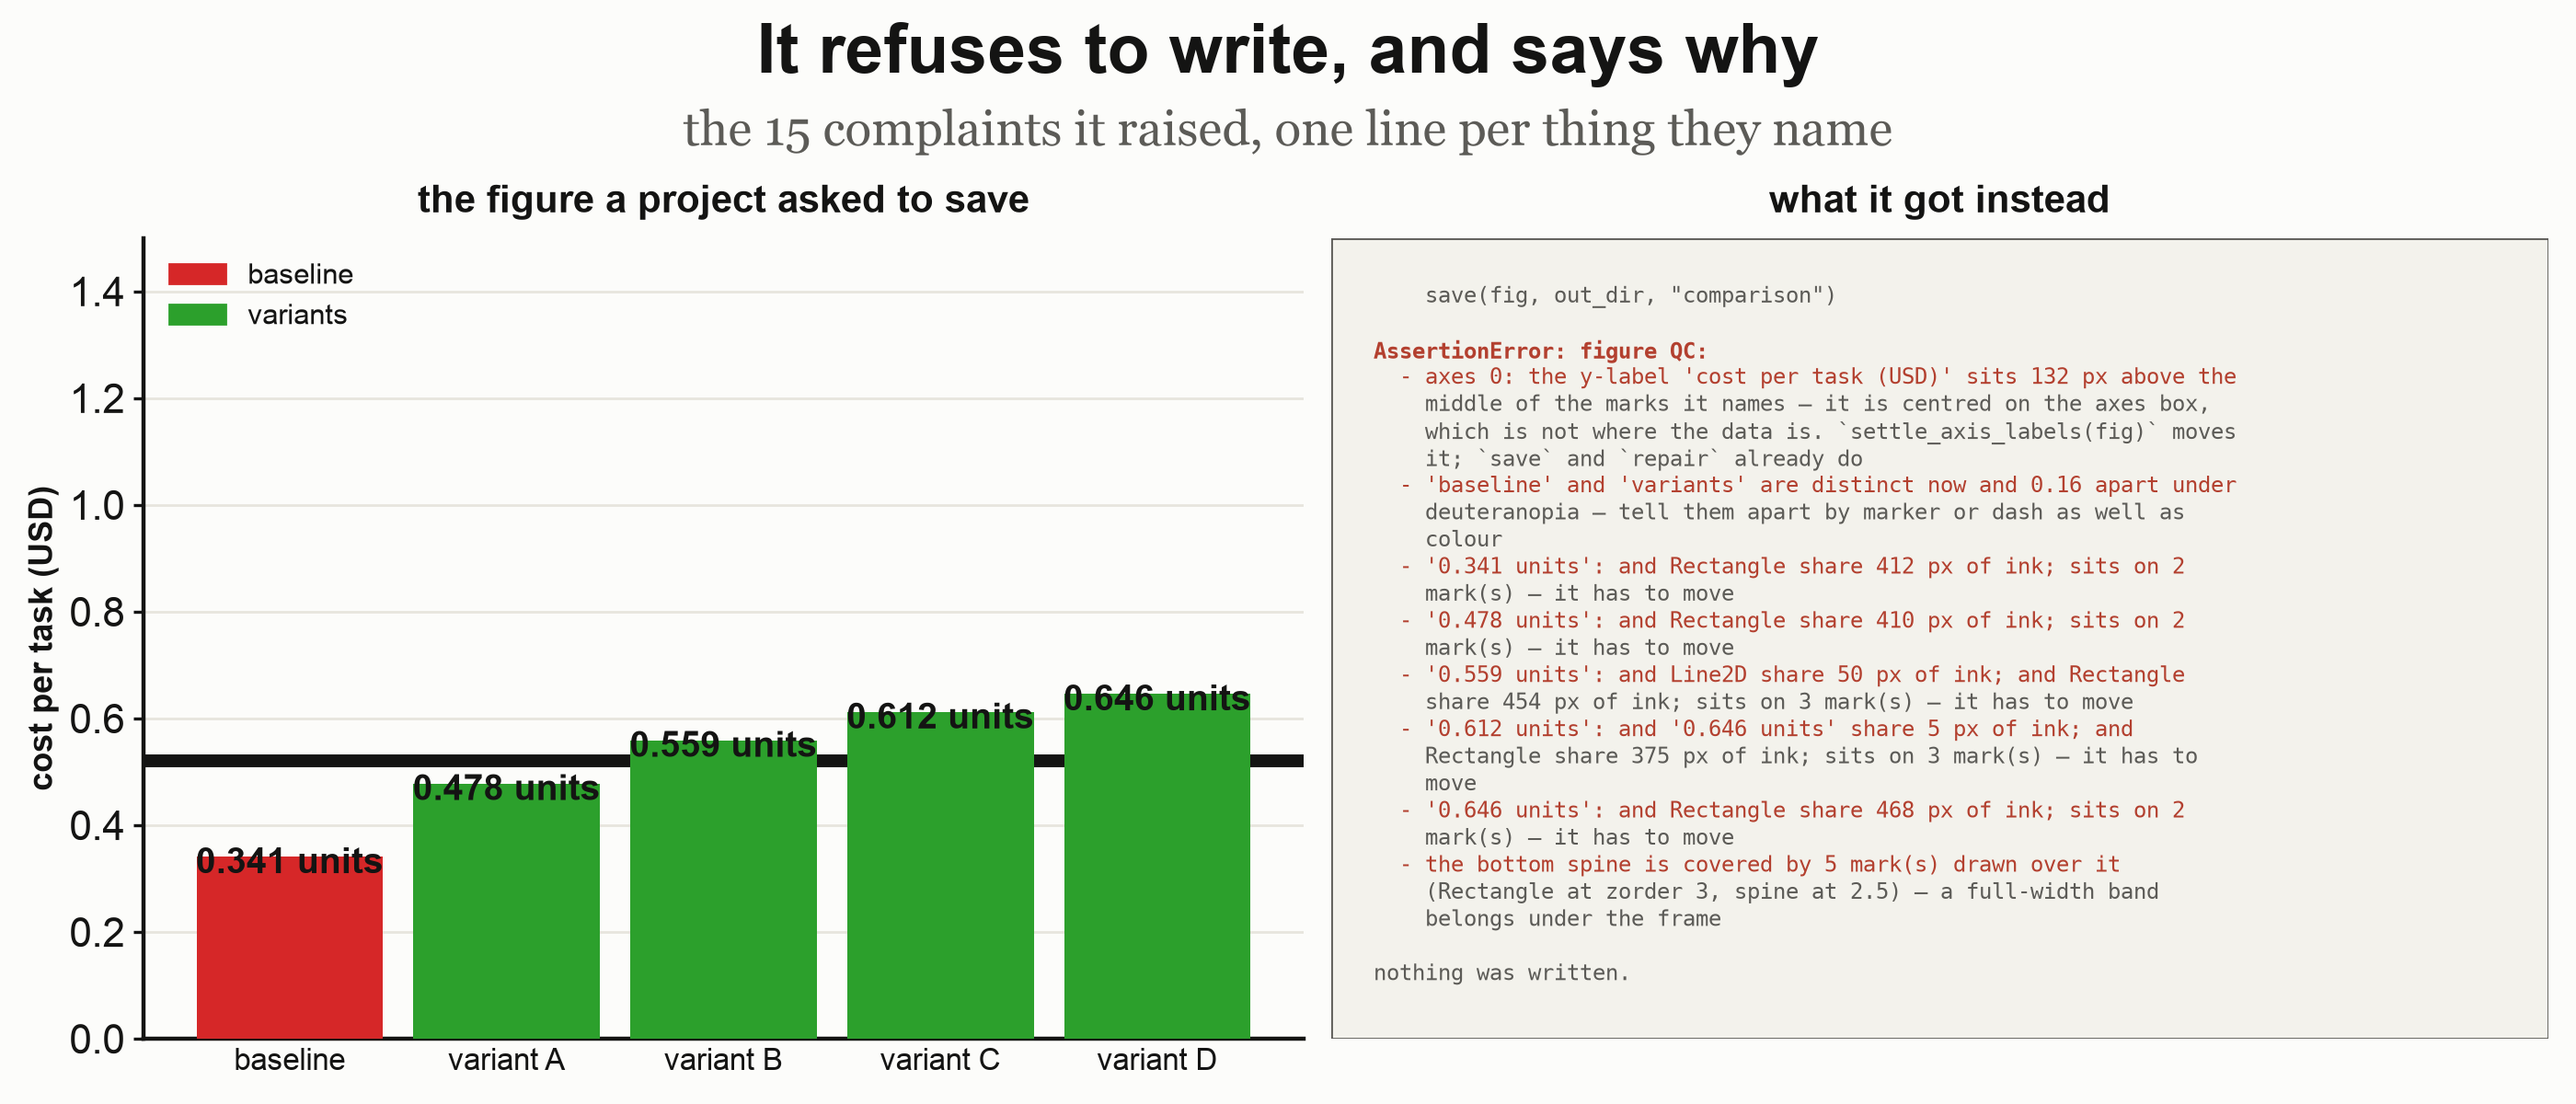
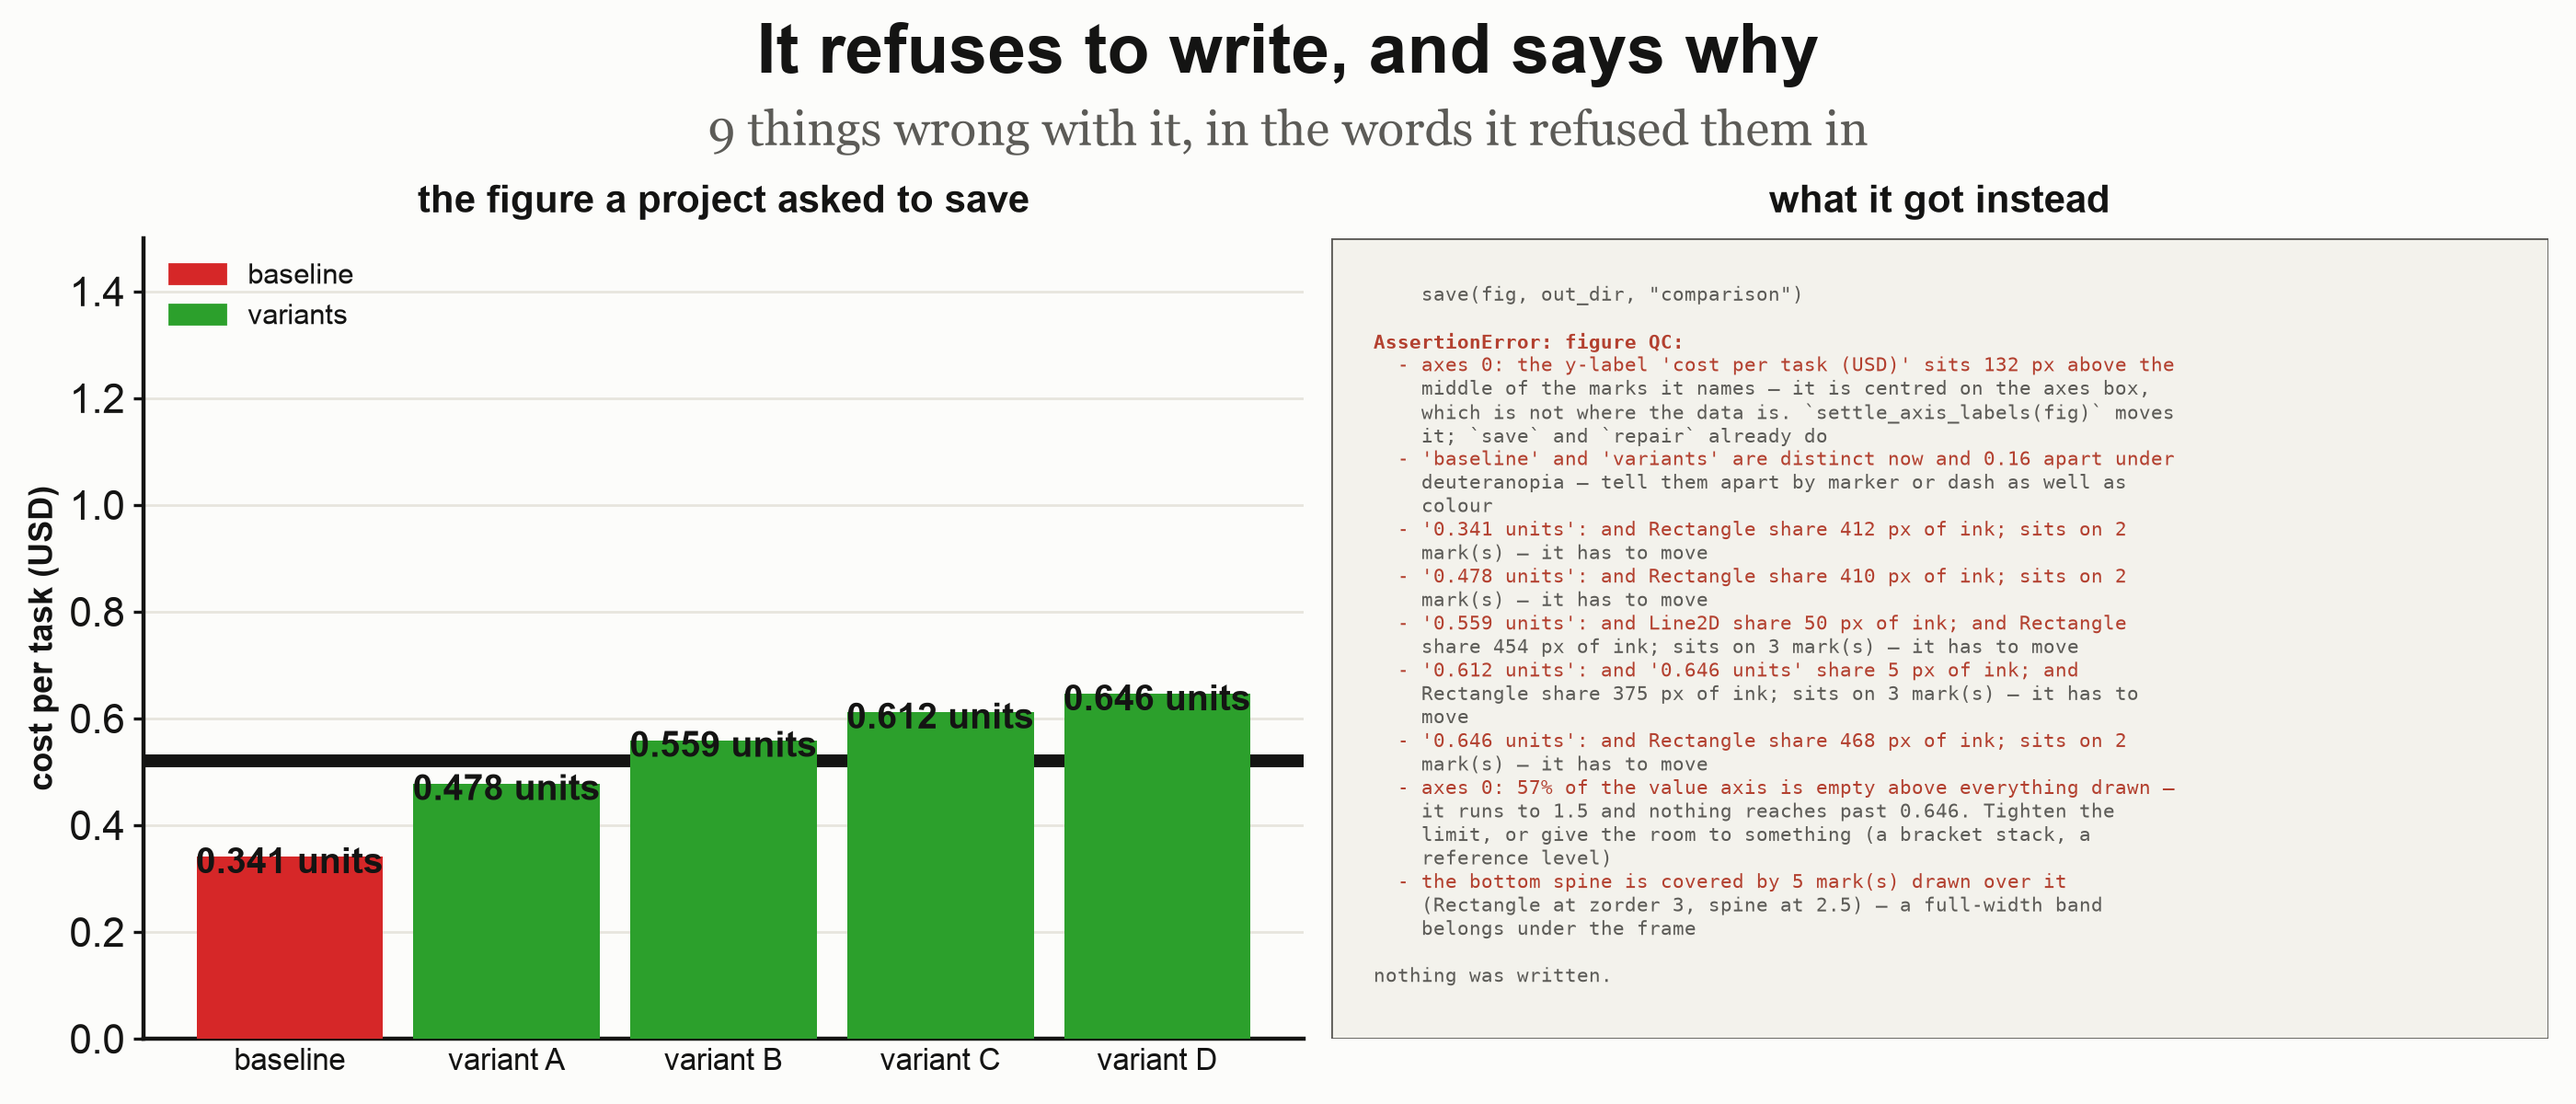
feat(qc): flag a value axis run past the data with nothing using the room
`ticks_in_the_headroom` returns early when a panel has no bracket stack, so it
covers only the case where the space IS spoken for. The plainer failure went
unreported: an axis simply set too tall, leaving a band of empty grid above the
data with no marks, no brackets and no reference in it — the reader is shown
ticks and gridlines for values nothing reaches, and every mark is squashed into
what is left.

Everything drawn counts as using the space, brackets and reference levels
included, because that is what headroom is normally for; in-panel text counts too,
or a top band holding a printed mean reads as empty. Only the TOP is judged — a
floor at zero is a deliberate and often required choice for bars, so empty space
below has an innocent explanation that empty space above does not.

Measured across the gallery for the threshold: the airiest correct panel leaves
27.7% of its axis empty, the next four 20-23%, median about 8%. The floor is 40%,
clear of the worst correct figure rather than fitted to the broken one, and a
test pins that relationship.

Also fixes what the gate figure's subtitle claimed. Two wordings named the raw
complaint count beside a card showing grouped lines, so the sentence asserted a
total nothing on the page adds up to — "8 complaints on 7 subjects" explained the
gap with this package's jargon, "the 15 complaints it raised" just dropped it.
The card has one line per thing named, so that is what gets counted: 9 lines,
9 named.

Changed region(s): [[0.5282, 0.3083, 0.87, 0.8942], [0.2486, 0.0925, 0.7146, 0.1542], [0.5593, 0.2467, 0.7146, 0.2775]]

diff --git a/ogviz/qc/test_arrangement.py b/ogviz/qc/test_arrangement.py
@@ -83,3 +83,85 @@ def test_no_gallery_figure_is_reported_as_crowded() -> None:
         "the tightest shipped gallery figure clears by 17.6 px; a floor at or above that "
         "reports a figure that is correct"
     )
+
+
+def test_an_axis_run_far_past_the_data_is_reported() -> None:
+    """Ticks and gridlines for values nothing reaches, and the marks squashed into what is left."""
+    from ogviz.qc.arrangement import unused_value_headroom
+
+    fig, ax = plt.subplots(figsize=(6.0, 5.0))
+    ax.bar([0, 1, 2], [0.34, 0.48, 0.65])
+    ax.set_ylim(0.0, 1.5)
+    found = unused_value_headroom(fig)
+    assert found and "empty above everything drawn" in found[0], found
+    assert "1.5" in found[0] and "0.65" in found[0], "it names both ends of the gap"
+    plt.close(fig)
+
+
+def test_a_fitted_axis_says_nothing() -> None:
+    """The premise for the test above, and the thing a threshold has to get right."""
+    from ogviz.qc.arrangement import unused_value_headroom
+
+    fig, ax = plt.subplots(figsize=(6.0, 5.0))
+    ax.bar([0, 1, 2], [0.34, 0.48, 0.65])
+    ax.set_ylim(0.0, 0.72)
+    assert unused_value_headroom(fig) == []
+    plt.close(fig)
+
+
+def test_headroom_a_bracket_occupies_is_headroom_in_use() -> None:
+    """The whole point of the distinction: reserved space is not wasted space.
+
+    `ticks_in_the_headroom` covers the case where the room is spoken for. This must not report the
+    same panel a second time, in different words, for having the room at all.
+    """
+    from ogviz.qc.arrangement import unused_value_headroom
+    from ogviz.tags import mark
+
+    fig, ax = plt.subplots(figsize=(6.0, 5.0))
+    ax.bar([0, 1, 2], [0.34, 0.48, 0.65])
+    ax.set_ylim(0.0, 1.5)
+    assert unused_value_headroom(fig), "the premise: empty, this panel is reported"
+
+    bracket = ax.plot([0, 2], [1.35, 1.35], color="#333")[0]
+    mark(bracket, "bracket")
+    assert unused_value_headroom(fig) == [], "a bracket in the room is the room being used"
+    plt.close(fig)
+
+
+def test_in_panel_text_counts_as_using_the_room() -> None:
+    """A printed mean or an annotation occupies the axis as surely as a mark does."""
+    from ogviz.qc.arrangement import unused_value_headroom
+
+    fig, ax = plt.subplots(figsize=(6.0, 5.0))
+    ax.bar([0, 1, 2], [0.34, 0.48, 0.65])
+    ax.set_ylim(0.0, 1.5)
+    assert unused_value_headroom(fig), "the premise"
+    ax.text(1.0, 1.35, "n = 40", ha="center")
+    assert unused_value_headroom(fig) == []
+    plt.close(fig)
+
+
+def test_an_empty_bottom_is_not_reported() -> None:
+    """A floor at zero is a deliberate and often required choice for bars.
+
+    Empty space below the data has an innocent explanation that empty space above it does not, so
+    only the top is judged.
+    """
+    from ogviz.qc.arrangement import unused_value_headroom
+
+    fig, ax = plt.subplots(figsize=(6.0, 5.0))
+    ax.bar([0, 1, 2], [1.30, 1.42, 1.48])  # every bar starts at zero; the lower axis is empty
+    ax.set_ylim(0.0, 1.5)
+    assert unused_value_headroom(fig) == []
+    plt.close(fig)
+
+
+def test_no_gallery_figure_is_reported_as_over_tall() -> None:
+    """The floor is set clear of the worst correct figure, not fitted to the broken one."""
+    from ogviz.qc.arrangement import EMPTY_HEADROOM
+
+    assert EMPTY_HEADROOM > 0.277, (
+        "the airiest shipped panel leaves 27.7% of its axis empty above everything drawn; "
+        "a floor at or below that refuses a figure that is correct"
+    )

diff --git a/ogviz/qc/arrangement.py b/ogviz/qc/arrangement.py
@@ -329,3 +329,66 @@ def value_label_off_its_marks(fig: Figure, *, floor: float = LABEL_OFF_ITS_MARKS
                 "`repair` already do"
             )
     return complaints
+
+
+# How much of the value axis may sit above everything drawn before it reads as a mistake. Measured
+# 2026-08-13 across the gallery, against the reach of every artist INCLUDING brackets, reference
+# levels and in-panel text — so headroom a bracket stack occupies is headroom that is being used:
+#
+#     the worst shipped panel   27.7%   a log spectrum, deliberately airy at the top
+#     the next four             20-23%  metric-grid cells and coupling scatters
+#     the median                 ~8%
+#
+# 0.40 sits well clear of the worst correct figure, which is what a gate threshold has to do — this
+# is not a taste question like `header_crowds_the_panels`, but it is next to one, and a figure that
+# is merely generous must not be refused. Only the TOP is judged. A floor at zero is a deliberate
+# and often required choice for bars, so empty space at the BOTTOM has an innocent explanation that
+# empty space at the top does not.
+EMPTY_HEADROOM = 0.40
+
+
+def unused_value_headroom(fig: Figure, *, floor: float = EMPTY_HEADROOM) -> list[str]:
+    """A value axis running well past everything on the panel, with nothing using the room.
+
+    `ticks_in_the_headroom` covers the case where the space IS spoken for — a bracket stack was
+    given room and the locator put ticks in it — and it returns early when the panel has no
+    brackets. So the plainer failure went unreported: an axis simply set too tall, leaving a band of
+    empty grid above the data with no marks, no brackets and no reference in it. The reader is shown
+    ticks and gridlines for values nothing reaches, and every mark is squashed into what is left.
+
+    Everything drawn counts as using the space, brackets and reference levels included, because
+    they are what headroom is normally FOR. What is reported is room nobody asked for.
+    """
+    from ogviz.layout.axis import drawn_value_extent
+
+    ensure_rendered(fig)
+    complaints: list[str] = []
+    for index, ax in enumerate(fig.axes):
+        if not ax.axison:
+            continue
+        extent = drawn_value_extent(ax, include_furniture=True)
+        if extent is None:
+            continue
+        # In-panel TEXT occupies the axis as surely as a mark does — a printed mean, a bracket's
+        # star, an annotation. Left out, a panel whose top band holds a row of labels and nothing
+        # else was reported as empty, which is the shape `dead_space` gets wrong for a table.
+        tops = [extent[1]]
+        tops += [
+            float(text.get_position()[1])
+            for text in ax.texts
+            if text.get_visible()
+            and text.get_text().strip()
+            and text.get_transform() is ax.transData
+        ]
+        low, high = ax.get_ylim()
+        if high <= low:
+            continue
+        share = (high - max(tops)) / (high - low)
+        if share < floor:
+            continue
+        complaints.append(
+            f"axes {index}: {share:.0%} of the value axis is empty above everything drawn — it "
+            f"runs to {high:g} and nothing reaches past {max(tops):g}. Tighten the limit, or give "
+            "the room to something (a bracket stack, a reference level)"
+        )
+    return complaints

diff --git a/ogviz/layout/axis.py b/ogviz/layout/axis.py
@@ -130,7 +130,7 @@ def _is_furniture(artist) -> bool:
 
 
 def drawn_value_extent(
-    ax: Axes, *, orientation: Orientation = "vertical"
+    ax: Axes, *, orientation: Orientation = "vertical", include_furniture: bool = False
 ) -> tuple[float, float] | None:
     """The lowest and highest value any MARK reaches, in data units, or None if nothing is drawn.
 
@@ -148,6 +148,12 @@ def drawn_value_extent(
     `ticks_over_data`, so a bar panel kept its ticks in the room held open for brackets;
     `align_mean_rows`; and `rows_outside_their_panel`. Right for the panels it was written against
     and silently absent everywhere else, which is the worst way for a check to be wrong.
+
+    `include_furniture` keeps the brackets, reference levels and backdrops that are otherwise
+    excluded. Two different questions are being asked of the same walk: "how far do the MARKS
+    reach", which is what a tick trim or a label centring needs, and "is there anything up there at
+    all", which is what deciding whether an axis runs past its content needs. A bracket occupies
+    the headroom it was given, so for the second question it counts.
 
     `orientation` picks WHICH coordinate is the value one. It reads y by default, which is what
     every caller written before `settle_axis_labels` wants and what a vertical panel means by "how
@@ -173,7 +179,7 @@ def drawn_value_extent(
                 lows.append(float(vertices[:, axis].min()))
                 highs.append(float(vertices[:, axis].max()))
     for line in ax.lines:
-        if _is_furniture(line):
+        if _is_furniture(line) and not include_furniture:
             continue
         values = np.asarray(line.get_ydata() if axis else line.get_xdata(), dtype=float)
         values = values[np.isfinite(values)]
@@ -181,7 +187,7 @@ def drawn_value_extent(
             lows.append(float(values.min()))
             highs.append(float(values.max()))
     for patch in ax.patches:
-        if _is_furniture(patch):
+        if _is_furniture(patch) and not include_furniture:
             continue
         vertices = np.asarray(patch.get_path().transformed(patch.get_patch_transform()).vertices)
         finite = vertices[np.isfinite(vertices[:, axis]), axis]

diff --git a/examples/__main__.py b/examples/__main__.py
@@ -781,11 +781,12 @@ def the_gate() -> None:
     header_bottom = titled(
         fig,
         "It refuses to write, and says why",
-        # "8 complaints on 7 subjects" was the first wording and it explained nothing: SUBJECT is
-        # this package's word for what `group_by_subject` keys on, and a reader has no way to know
-        # that — or why the two numbers differ. Both are now readable off the card itself: seven
-        # bullets, one of which carries two complaints about the same label.
-        subtitle=f"the {len(found)} complaints it raised, one line per thing they name",
+        # THE NUMBER A READER CAN COUNT, and only that. Two earlier wordings named `len(found)` —
+        # the raw complaint count — beside a card showing `len(complaints)` grouped lines, so the
+        # subtitle asserted a total nothing on the page adds up to. "8 complaints on 7 subjects"
+        # explained the gap with this package's own jargon; "the 15 complaints it raised" simply
+        # dropped it. The card has one line per thing named, so that is what gets counted.
+        subtitle=f"{len(complaints)} things wrong with it, in the words it refused them in",
     )
     fit_under_header(fig, header_bottom, bottom=0.0)
     _assert_shows_the_defect(build)

diff --git a/ogviz/qc/__init__.py b/ogviz/qc/__init__.py
@@ -37,6 +37,7 @@ from ogviz.qc.arrangement import (
     panels_disagree_about_ticks,
     rows_outside_their_panel,
     ticks_in_the_headroom,
+    unused_value_headroom,
     value_label_off_its_marks,
 )
 from ogviz.qc.color import legend_colors, series_confusable_under_cvd
@@ -100,6 +101,7 @@ __all__ = [
     "ticks_in_the_headroom",
     "type_too_small",
     "ungrouped_thousands",
+    "unused_value_headroom",
     "value_label_off_its_marks",
 ]
 
@@ -109,6 +111,7 @@ CHECKS = (
     panels_disagree_about_ticks,
     layout_not_applied,
     value_label_off_its_marks,
+    unused_value_headroom,
     series_confusable_under_cvd,
     rows_outside_their_panel,
     mean_rows_unaligned,

diff --git a/README.md b/README.md
@@ -119,9 +119,10 @@ so one can be asked for by name — 3E, 1C.
 the same with no code change. Both also refuse a tofu box — text with no glyph in the resolved font.
 
 It catches colliding text, labels sitting on the marks, an axis title centred on room the data
-never reaches, clipped ink, buried spines and thresholds, stars at uneven distances, dots on the
-mean line, ungrouped thousands, mixed minus signs, and two legend series that merge under
-colour-vision deficiency. `--list-checks` prints the current set.
+never reaches, an axis run so far past the data that nothing uses the space, clipped ink, buried
+spines and thresholds, stars at uneven distances, dots on the mean line, ungrouped thousands, mixed
+minus signs, and two legend series that merge under colour-vision deficiency. `--list-checks`
+prints the current set.
 
 Where a linter reads a chart specification, these read the RENDERED figure — so they work on any
 matplotlib figure, from any project:
@@ -359,6 +360,7 @@ ogviz
 │   │   ├── panels_disagree_about_ticks(fig: Figure) -> list[str]
 │   │   ├── rows_outside_their_panel(fig: Figure) -> list[str]
 │   │   ├── ticks_in_the_headroom(fig: Figure) -> list[str]
+│   │   ├── unused_value_headroom(fig: Figure, *, floor: float) -> list[str]
 │   │   └── value_label_off_its_marks(fig: Figure, *, floor: float) -> list[str]
 │   ├── color
 │   │   ├── legend_colors(fig: Figure) -> dict[str, str]
